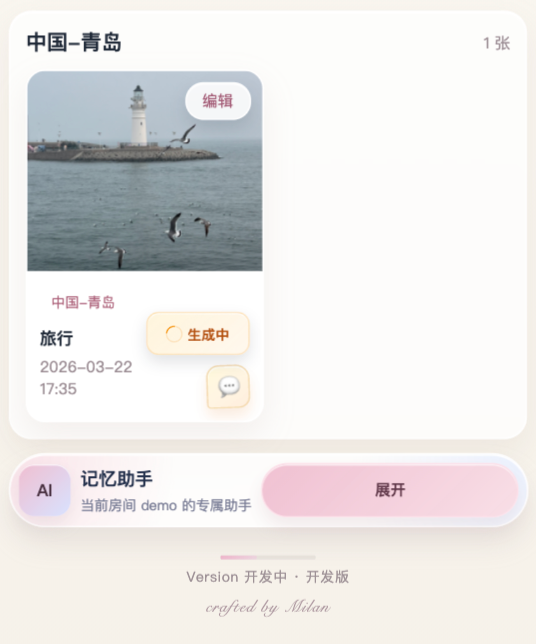
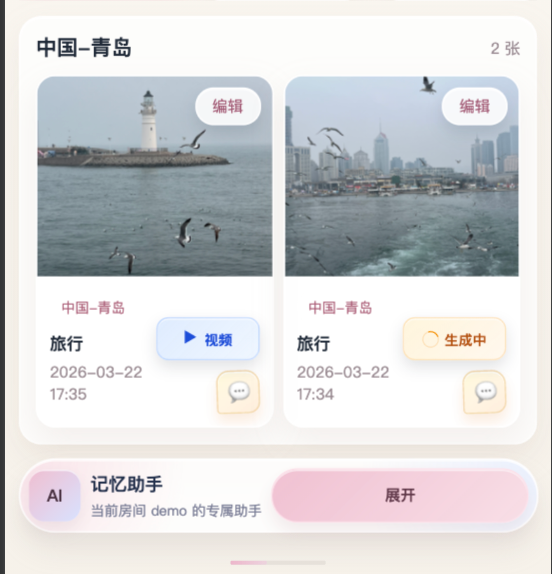
add TinyUniverse.ai project page

diff --git a/content/projects.js b/content/projects.js
@@ -1,5 +1,33 @@
 export const projects = [
   {
+    slug: "ourmemory",
+    name: "TinyUniverse.ai",
+    year: "2026",
+    status: "Active",
+    type: "WeChat Mini Program / AI Memory App",
+    summary:
+      "一个基于 AI 能力增强的微信回忆录小程序，围绕照片归档、空间化管理、城市识别、内容总结与视频生成，探索记忆内容的结构化整理与再表达。",
+    tags: ["WeChat Mini Program", "AI Memory", "Cloud Functions", "AI Video"],
+    repo: "https://github.com/Vonct/memories_miniprogram",
+    demo: "",
+    role: "独立设计与实现",
+    duration: "Ongoing",
+    stack: [
+      "WeChat Mini Program",
+      "Tencent CloudBase",
+      "Node.js Cloud Functions",
+      "MiniMax",
+      "EXIF / Geo Parsing",
+    ],
+    highlights: [
+      "围绕旅行、约会、日常、美食四类内容设计统一回忆录信息架构",
+      "支持房间切换与邀请码加入，让内容管理从单相册扩展到空间化组织",
+      "旅行照片自动解析 GPS / 城市信息，美食照片支持分类与评分标注",
+      "接入AI视频生成与 Agent 总结能力，增强内容再表达",
+    ],
+    detailMd: "./content/projects/ourmemory.md",
+  },
+  {
     slug: "mylabagent",
     name: "myLabAgent",
     year: "2026",

diff --git a/content/projects/ourmemory.md b/content/projects/ourmemory.md
@@ -1,0 +1,75 @@
+# 项目背景
+
+`TinyUniverse.ai` 是一个基于 AI 能力增强的微信回忆录小程序，目标不是把照片简单堆成时间流，而是把旅行、约会、日常、美食这些高频记忆场景整理成可以长期维护、持续扩展、可被再次理解和生成的内容空间。
+
+项目当前已经覆盖照片上传、分类浏览、空间化管理、城市归档、AI 视频生成，以及基于房间上下文的 Agent 对话能力。整体方向更接近一个轻量的「AI 回忆录系统」，而不是单纯的相册页。
+
+## 核心体验设计
+
+- 围绕 `旅行 / 约会 / 日常 / 美食` 四类内容设计统一的信息架构
+- 首页先分类切换和当前房间状态，再进入具体内容管理
+- 约会相册采用“目录 -> 照片”两层结构，适合按一次活动、一次出行、一次看展持续沉淀
+- 美食相册补充分类与心动评分，让内容不只可看，也便于后续检索和回忆
+- 多张照片支持管理模式，便于后续批量补录和移动整理
+
+![TinyUniverse.ai 房间邀请与共享](./imgs/tu_shareRoom.jpeg)
+
+项目把“空间化组织”作为核心能力而不是附属功能处理。用户可以在多个房间间切换，为每个房间独立维护照片、目录、视频任务与上下文；邀请码机制则让内容协作和分空间管理保持轻量，也为后续的空间总结和主题回顾提供稳定边界。
+
+![TinyUniverse.ai 邀请加入房间](./imgs/tu_inviteRoom.jpeg)
+
+## 数据组织与云端能力
+
+为了让回忆录内容长期可维护，后端没有只停留在“上传文件 + 列表展示”这一层，而是进一步补齐了面向内容理解与归档的结构化字段：
+
+- `travel` 内容会尽量解析原图 `EXIF / GPS` 信息，并落库为 `travelLocation`、`travelCityKey`、`travelCityLabel`
+- `food` 内容会保留分类与评分，便于按主题整理与二次筛选
+- `datingFolders` 用于承载约会目录，把一次事件的连续照片聚拢到同一语义单元
+- `spaces`、`memoryAccess`、`memoryVideoTasks` 等集合让房间权限、共享关系和 AI 任务状态可以解耦演进
+
+这套结构让项目后续能够继续扩展，例如空间级总结、地点维度回放、活动级时间线，或者围绕同一房间加入更多 AI 能力，而不需要把基础数据再推翻重来。
+
+## AI 能力接入
+
+项目已经把 AI 从“可选彩蛋”推进到真实可用功能：
+
+- 支持 `图生视频`
+- 支持 `首尾帧生成视频`
+- 支持 `主体参考生成视频`
+- 视频模式、时长、分辨率与底层模型能力做了对应映射，避免接口能力不匹配导致请求失败
+- 视频任务会和照片关联展示，方便在相册内直接查看“生成中 / 成功 / 失败”状态
+
+![TinyUniverse.ai AI 视频生成](./imgs/tu_video_gen_1.png)
+
+![TinyUniverse.ai AI 视频生成结果](./imgs/tu_video_gen_2.png)
+
+除了视频能力，项目还预留并接入了房间上下文相关的 Agent 对话链路。Agent 会基于 `space_id`、会话和房间上下文发起请求，让“总结这个空间最近记录了什么”“帮忙回顾某次旅行”这类能力可以在真实照片与真实归档结构上自然成立，而不是脱离实际内容单独存在。
+
+![TinyUniverse.ai Agent 空间总结](./imgs/tu_agent_summary.jpeg)
+
+## 工程实现
+
+### 前端
+
+- 基于微信小程序原生框架实现
+- 首页承担分类切换、房间管理、上传入口、照片网格和任务状态展示
+- 视觉上采用偏情绪化、贴纸感和柔和渐变的界面语言，让工具属性不过度压过“回忆录产品”的氛围
+
+### 云函数与服务划分
+
+- 云端能力按访问控制、内容管理、空间协作、视频生成和 Agent 对话几个方向拆分
+- 数据结构围绕照片内容、目录组织、空间上下文和任务状态设计，便于后续持续扩展
+- 整体实现强调把产品体验和 AI 能力接到同一套内容体系里，而不是做成彼此割裂的功能点
+
+这种分层方式让核心流程保持清晰，也便于逐步增加能力，而不需要频繁推翻已有结构。
+
+## 当前项目价值
+
+`TinyUniverse.ai` 的价值不只在于“能上传照片”，而在于它已经开始把回忆记录这件事做成一个可扩展的 AI 产品原型：
+
+- 先用结构化分类把内容组织起来
+- 再用房间机制把内容放进稳定的空间上下文
+- 然后让城市归档、目录管理和 AI 视频把内容从“存起来”推进到“可回看、可整理、可生成”
+- 最后再把 Agent 总结接到真实照片与真实房间上，让后续的记忆检索与叙事能力有实际落点
+
+整体上，这是一个从日常相册出发，逐步走向 AI 回忆录与内容生成助手的持续演进项目。
